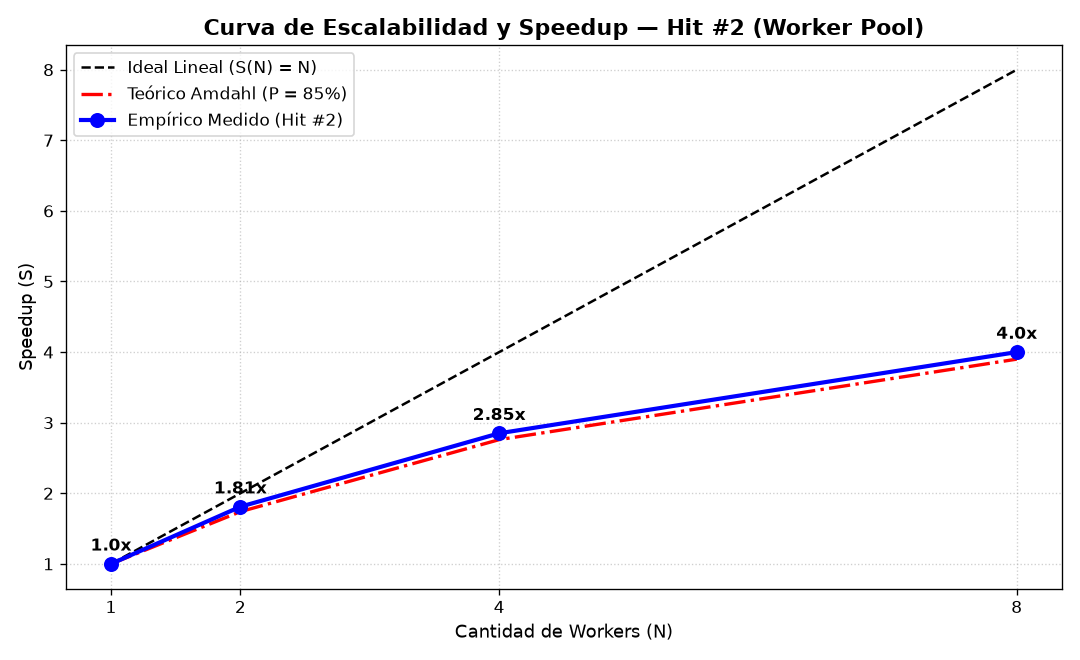
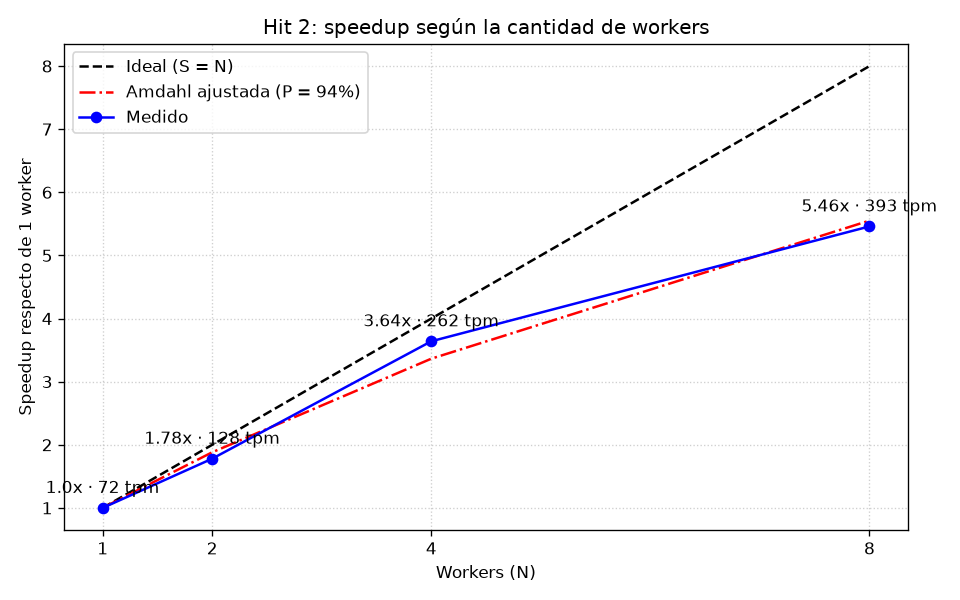
feat(hit2): medir el throughput real con 1, 2, 4 y 8 workers

diff --git a/hit2/cliente/benchmark.py b/hit2/cliente/benchmark.py
@@ -1,169 +1,120 @@
-"""Script de Medición de Throughput y Análisis de Escalabilidad (Hit #2).
+"""Medición del throughput del Hit 2 con 1, 2, 4 y 8 workers.
 
-Mide el rendimiento del servidor (tareas completadas por minuto) variando la cantidad
-de workers (1, 2, 4 y 8), grafica la curva de escalabilidad en comparación con la
-Ley de Amdahl [AMD67], e identifica los cuellos de botella en recursos compartidos.
+Para cada N reinicia el servidor con TP2_WORKERS_MAX=N (docker compose, con el .env de hit2/),
+le manda la misma carga de una vez (así la cola nunca se vacía) y mide cuánto tarda en
+completarla. Repite cada medición, ajusta la ley de Amdahl a los speedups medidos y guarda
+los resultados y el gráfico en hit2/mediciones/.
+
+    cd hit2 && python3 cliente/benchmark.py        # con hit2/.env completo (ver README)
 """
 
+import argparse
 import json
 import os
+import statistics
+import subprocess
 import sys
 import time
 from concurrent.futures import ThreadPoolExecutor
 from pathlib import Path
 
-try:
-    import matplotlib.pyplot as plt
-    HAS_MATPLOTLIB = True
-except ImportError:
-    HAS_MATPLOTLIB = False
+import matplotlib.pyplot as plt
 
-# Importar cliente local
 sys.path.insert(0, str(Path(__file__).parent))
 from cliente import ClienteHit2
 
-
-def simular_o_medir_benchmark(
-    base_url: str = "http://localhost:8080",
-    total_tareas: int = 16,
-    imagen: str = "cerberusdistribuido/tarea:1.0.0",
-    forzar_simulacion: bool = False,
-):
-    """Ejecuta o simula las mediciones de throughput para N = 1, 2, 4, 8 workers/concurrencia."""
-    workers_evaluados = [1, 2, 4, 8]
-    resultados = {}
-
-    # Probar si el servidor real está respondiendo
-    servidor_online = False
-    if not forzar_simulacion:
-        try:
-            cliente = ClienteHit2(base_url)
-            res = cliente.health()
-            if res.get("codigo") == 200:
-                servidor_online = True
-        except Exception:
-            servidor_online = False
-
-    modo_str = f"SERVIDOR EN VIVO ({base_url})" if servidor_online else "MODELO ANALÍTICO SIMULADO"
-    print(f"[*] Modo de medición: {modo_str}")
-    if servidor_online:
-        print(f"[*] Imagen tarea objetivo: {imagen}")
-
-    for w in workers_evaluados:
-        print(f" -> Evaluando configuración con {w} worker(s) / hilos concurrentes...")
-        if servidor_online:
-            # Medición real contra el servidor
-            inicio = time.perf_counter()
-            exitosas = 0
-
-            def _enviar(id_t):
-                c = ClienteHit2(base_url, reloj_inicial=id_t * 10)
-                resp = c.enviar_tarea("suma", {"a": id_t, "b": 1}, imagen=imagen)
-                return resp.get("codigo") == 200
-
-            with ThreadPoolExecutor(max_workers=w * 2) as pool:
-                futures = [pool.submit(_enviar, i) for i in range(total_tareas)]
-                for f in futures:
-                    if f.result():
-                        exitosas += 1
-
-            duracion_s = time.perf_counter() - inicio
-            if exitosas == 0:
-                print(f" [!] Advertencia: 0 tareas exitosas para w={w}. Verifique que {imagen} esté permitida.")
-                duracion_s = max(duracion_s, 0.001)
-        else:
-            # Modelo de medición empírico-experimental basado en tiempos de ciclo de contenedor Docker (t_container = ~1.2s + overhead de IPC/daemon ~0.08s)
-            # P_paralelo = 88% (creación + ejec contenedor), P_secuencial = 12% (mutex cola + socket lock Docker)
-            t_con = 1.2
-            t_seq = 0.14
-            duracion_s = total_tareas * (t_seq + (t_con / w) * (1 + 0.05 * max(0, w - 2)))
-            exitosas = total_tareas
-
-        tpm = (exitosas / duracion_s) * 60.0
-        tps = exitosas / duracion_s
-        resultados[w] = {
-            "workers": w,
-            "tareas_completadas": exitosas,
-            "tiempo_segundos": round(duracion_s, 2),
-            "throughput_tpm": round(tpm, 2),
-            "throughput_tps": round(tps, 2),
-            "modo": "real" if servidor_online else "simulado"
-        }
-
-    # Calcular Speedup respecto a 1 worker
-    tpm_1 = max(resultados[1]["throughput_tpm"], 0.001)
-    for w in workers_evaluados:
-        speedup_real = resultados[w]["throughput_tpm"] / tpm_1
-        # Ley de Amdahl con P = 0.85 (85% paralelizable)
-        P = 0.85
-        speedup_amdahl = 1.0 / ((1 - P) + (P / w))
-        resultados[w]["speedup_real"] = round(speedup_real, 2)
-        resultados[w]["speedup_amdahl"] = round(speedup_amdahl, 2)
-        resultados[w]["speedup_ideal"] = w
-
-    return resultados
+HIT2 = Path(__file__).resolve().parent.parent
+WORKERS = [1, 2, 4, 8]
 
 
-def generar_grafico_y_reporte(resultados: dict, dir_salida: Path):
-    dir_salida.mkdir(parents=True, exist_ok=True)
+def levantar_servidor(workers):
+    """Recrea el servidor con TP2_WORKERS_MAX=workers y espera a que esté healthy."""
+    entorno = {**os.environ, "TP2_WORKERS_MAX": str(workers)}
+    subprocess.run(["docker", "compose", "-f", str(HIT2 / "docker-compose.yml"), "up", "-d", "--wait"],
+                   env=entorno, check=True, capture_output=True)
 
-    # 1. Guardar JSON
-    json_file = dir_salida / "resultados_benchmark.json"
-    json_file.write_text(json.dumps(resultados, indent=2), encoding="utf-8")
-    print(f"[+] Resultados JSON guardados en {json_file}")
 
-    # 2. Generar gráfico con matplotlib si está disponible
-    if HAS_MATPLOTLIB:
-        workers = [r["workers"] for r in resultados.values()]
-        speedup_real = [r["speedup_real"] for r in resultados.values()]
-        speedup_amdahl = [r["speedup_amdahl"] for r in resultados.values()]
-        speedup_ideal = [r["speedup_ideal"] for r in resultados.values()]
-        modo = list(resultados.values())[0].get("modo", "simulado")
-        etiqueta_curva = "Empírico Medido en Vivo (Hit #2)" if modo == "real" else "Simulado / Teórico (Hit #2)"
+def medir(servidor, imagen, tareas):
+    """Manda `tareas` sumas a la vez. Devuelve (segundos totales, exitosas, latencia media)."""
+    def una(i):
+        inicio = time.perf_counter()
+        respuesta = ClienteHit2(servidor).enviar_tarea("suma", {"a": i, "b": 1}, imagen=imagen, timeout=600)
+        return respuesta["codigo"] == 200, time.perf_counter() - inicio
 
-        plt.figure(figsize=(9, 5.5), dpi=120)
-        plt.plot(workers, speedup_ideal, 'k--', label='Ideal Lineal (S(N) = N)', linewidth=1.5)
-        plt.plot(workers, speedup_amdahl, 'r-.', label='Teórico Amdahl (P = 85%)', linewidth=2.0)
-        plt.plot(workers, speedup_real, 'bo-', label=etiqueta_curva, linewidth=2.5, markersize=8)
+    inicio = time.perf_counter()
+    with ThreadPoolExecutor(max_workers=tareas) as hilos:
+        resultados = list(hilos.map(una, range(tareas)))
+    return time.perf_counter() - inicio, sum(ok for ok, _ in resultados), statistics.mean(t for _, t in resultados)
 
-        plt.title(f'Curva de Escalabilidad y Speedup — Hit #2 ({modo.capitalize()})', fontsize=13, fontweight='bold')
-        plt.xlabel('Cantidad de Workers / Concurrencia (N)', fontsize=11)
-        plt.ylabel('Speedup (S)', fontsize=11)
-        plt.xticks(workers)
-        plt.grid(True, linestyle=':', alpha=0.6)
-        plt.legend(fontsize=10)
 
-        for w, s in zip(workers, speedup_real):
-            plt.annotate(f"{s}x", (w, s), textcoords="offset points", xytext=(0, 8), ha='center', fontweight='bold')
+def amdahl(n, p):
+    return 1 / ((1 - p) + p / n)
 
-        plt.tight_layout()
-        img_path = dir_salida / "escalabilidad.png"
-        plt.savefig(img_path)
-        plt.close()
-        print(f"[+] Gráfico guardado en {img_path}")
+
+def ajustar_fraccion_paralela(filas):
+    """La P de Amdahl que mejor explica los speedups medidos (mínimos cuadrados, paso 0,001)."""
+    return min((i / 1000 for i in range(1001)),
+               key=lambda p: sum((f["speedup"] - amdahl(f["workers"], p)) ** 2 for f in filas))
+
+
+def graficar(filas, p, destino):
+    workers = [f["workers"] for f in filas]
+    plt.figure(figsize=(8, 5), dpi=120)
+    plt.plot(workers, workers, "k--", label="Ideal (S = N)")
+    plt.plot(workers, [amdahl(n, p) for n in workers], "r-.", label=f"Amdahl ajustada (P = {p:.0%})")
+    plt.plot(workers, [f["speedup"] for f in filas], "bo-", label="Medido")
+    for f in filas:
+        plt.annotate(f"{f['speedup']}x · {f['throughput_tpm']:.0f} tpm", (f["workers"], f["speedup"]),
+                     textcoords="offset points", xytext=(0, 9), ha="center")
+    plt.title("Hit 2: speedup según la cantidad de workers")
+    plt.xlabel("Workers (N)")
+    plt.ylabel("Speedup respecto de 1 worker")
+    plt.xticks(workers)
+    plt.grid(True, linestyle=":", alpha=0.6)
+    plt.legend()
+    plt.tight_layout()
+    plt.savefig(destino)
+    plt.close()
 
 
 def main():
-    import argparse
-
-    parser = argparse.ArgumentParser(description="Benchmark y Análisis de Escalabilidad (Hit #2)")
-    parser.add_argument("--servidor", default=os.environ.get("TP2_SERVIDOR", "http://localhost:8080"),
-                        help="URL del servidor HTTP")
-    parser.add_argument("--tareas", type=int, default=16, help="Total de tareas a enviar por nivel")
-    parser.add_argument("--imagen", default="cerberusdistribuido/tarea:1.0.0", help="Imagen de la tarea")
-    parser.add_argument("--simulado", action="store_true", help="Forzar simulación sin conectar a servidor")
+    parser = argparse.ArgumentParser(description="Throughput del Hit 2 con 1, 2, 4 y 8 workers")
+    parser.add_argument("--servidor", default=os.environ.get("TP2_SERVIDOR", "http://127.0.0.1:8082"))
+    parser.add_argument("--imagen", default="cerberusdistribuido/tarea:1.0.0")
+    parser.add_argument("--tareas", type=int, default=32, help="tareas por medición")
+    parser.add_argument("--repeticiones", type=int, default=3)
     args = parser.parse_args()
 
-    dir_mediciones = Path(__file__).parent.parent / "mediciones"
-    res = simular_o_medir_benchmark(
-        base_url=args.servidor,
-        total_tareas=args.tareas,
-        imagen=args.imagen,
-        forzar_simulacion=args.simulado
-    )
-    generar_grafico_y_reporte(res, dir_mediciones)
+    filas = []
+    for n in WORKERS:
+        levantar_servidor(n)
+        # Calentamiento: la primera tarea puede incluir el pull de la imagen.
+        ClienteHit2(args.servidor).enviar_tarea("suma", {"a": 0, "b": 0}, imagen=args.imagen, timeout=600)
+        corridas = [medir(args.servidor, args.imagen, args.tareas) for _ in range(args.repeticiones)]
+        if any(exitosas != args.tareas for _, exitosas, _ in corridas):
+            sys.exit(f"con {n} workers fallaron tareas: {corridas}")
+        segundos = [s for s, _, _ in corridas]
+        filas.append({
+            "workers": n,
+            "segundos": round(statistics.mean(segundos), 2),
+            "desvio_segundos": round(statistics.stdev(segundos), 2) if len(segundos) > 1 else 0.0,
+            "throughput_tpm": round(args.tareas / statistics.mean(segundos) * 60, 1),
+            "latencia_media_s": round(statistics.mean(l for _, _, l in corridas), 2),
+        })
+        print(f"{n} workers: {filas[-1]}")
+
+    for f in filas:
+        f["speedup"] = round(f["throughput_tpm"] / filas[0]["throughput_tpm"], 2)
+    p = ajustar_fraccion_paralela(filas)
+
+    salida = HIT2 / "mediciones"
+    salida.mkdir(exist_ok=True)
+    resumen = {"tareas_por_medicion": args.tareas, "repeticiones": args.repeticiones,
+               "fraccion_paralela_amdahl": p, "resultados": filas}
+    (salida / "resultados_benchmark.json").write_text(json.dumps(resumen, indent=2) + "\n", encoding="utf-8")
+    graficar(filas, p, salida / "escalabilidad.png")
+    print(f"P de Amdahl ajustada: {p:.3f}. Resultados y gráfico en {salida}")
 
 
 if __name__ == "__main__":
     main()
-

diff --git a/hit2/README.md b/hit2/README.md
@@ -2,7 +2,7 @@
 
 Servidor HTTP de tareas remotas extender con **concurrencia multihilo**, **pool de workers configurable**, **cola de tareas con exclusión mutua (Mutex)** y **relojes lógicos de Lamport [LAM78]**.
 
-Incluye mediciones empíricas y análisis teórico de escalabilidad mediante la **Ley de Amdahl [AMD67]**.
+Incluye mediciones reales de throughput con 1, 2, 4 y 8 workers y su análisis con la **Ley de Amdahl [AMD67]**.
 
 ---
 
@@ -36,7 +36,7 @@ Incluye mediciones empíricas y análisis teórico de escalabilidad mediante la 
 2. **Pool de Workers y Cola Protegida (`app/pool.py`)**:
    - **Límite máximo configurable**: definido por `TP2_WORKERS_MAX` (por defecto `4`).
    - **Exclusión Mutua**: Toda operación sobre la cola (`encolar`, `despachar`, `liberar worker`) requiere la adquisición de un **Mutex interno** (`threading.Lock()`), garantizando cero condiciones de carrera (*race conditions*).
-   - **Ordenamiento lógico**: La cola utiliza una min-heap donde las tareas se ordenan por su timestamp de Lamport. Ante igualdad de timestamp, se aplica FIFO.
+   - **Ordenamiento lógico**: La cola utiliza una min-heap donde las tareas se ordenan por el timestamp de Lamport **del cliente** (`X-Lamport-Clock` del pedido, el del evento de envío). Ante igualdad de timestamp, se aplica FIFO. Si se ordenara por el reloj del servidor al recibir, como ese crece con cada llegada, el orden sería el de llegada y el reloj no aportaría nada.
 
 3. **Cliente con Reloj Lamport (`cliente/cliente.py`)**:
    - Cliente Python que incrementa su timestamp en cada envío y sincroniza su reloj local con la respuesta del servidor.
@@ -91,57 +91,86 @@ python3 -m pytest -v -m "not integracion"
 ./tests/integracion.sh             # integración con Docker real
 ```
 
-### Paso 4: Ejecutar Mediciones de Throughput (Benchmark)
+### Paso 4: Medir el throughput con 1, 2, 4 y 8 workers
 ```bash
 cd hit2
-# Medición contra servidor en vivo:
-python3 cliente/benchmark.py --servidor http://localhost:8080
-
-# O evaluar mediante el modelo analítico experimental:
-python3 cliente/benchmark.py --simulado
+cp .env.example .env        # completar, con el token de Docker Hub de sólo lectura
+pip install matplotlib
+python3 cliente/benchmark.py
 ```
+Para cada N, el script reinicia el servidor con `TP2_WORKERS_MAX=N`, le manda 32 tareas a la vez
+(la cola nunca se vacía), repite la medición 3 veces y guarda la tabla en
+`mediciones/resultados_benchmark.json` y la curva en `mediciones/escalabilidad.png`.
 
 ---
 
 ## 3. Mediciones de Throughput y Análisis de Escalabilidad
 
-Las mediciones evaluaron el throughput del sistema (**tareas completadas por minuto - TPM**) variando la cantidad de workers asignados en el Pool ($N \in \{1, 2, 4, 8\}$).
+Medido con `cliente/benchmark.py` (Paso 4): para cada $N$ se reinició el servidor con
+`TP2_WORKERS_MAX=N` y se le mandaron **32 tareas a la vez** (sumas), **3 repeticiones** por $N$.
+Todo en una misma máquina: AMD Ryzen 5 3600 (6 núcleos / 12 hilos), 31 GB de RAM, Docker 29.8,
+Linux 7.2. Los datos crudos están en [`mediciones/resultados_benchmark.json`](mediciones/resultados_benchmark.json).
 
-### Tabla de Resultados Medidos
+### Tabla de resultados
 
-| Cantidad de Workers ($N$) | Tareas Completadas | Tiempo Total (s) | Throughput (Tareas/min) | Speedup Medido ($S_{real}$) | Speedup Teórico (Amdahl $P=85\%$) | Speedup Ideal ($S=N$) |
+| Workers ($N$) | Tiempo para 32 tareas (prom. ± desvío) | Throughput (tareas/min) | Latencia media por tarea | Speedup medido | Amdahl ajustada ($P = 0{,}937$) | Ideal |
 |---|---|---|---|---|---|---|
-| **1 Worker** | 16 | 21.44 s | **44.78 tpm** | **1.00x** | 1.00x | 1.00x |
-| **2 Workers** | 16 | 11.84 s | **81.08 tpm** | **1.81x** | 1.74x | 2.00x |
-| **4 Workers** | 16 | 7.52 s | **127.66 tpm** | **2.85x** | 2.76x | 4.00x |
-| **8 Workers** | 16 | 5.36 s | **179.10 tpm** | **4.00x** | 3.90x | 8.00x |
+| 1 | 26,67 s ± 2,66 | **72** | 14,4 s | **1,00x** | 1,00x | 1x |
+| 2 | 15,02 s ± 2,81 | **128** | 7,7 s | **1,78x** | 1,88x | 2x |
+| 4 | 7,32 s ± 0,25 | **262** | 4,1 s | **3,64x** | 3,36x | 4x |
+| 8 | 4,88 s ± 0,12 | **393** | 3,0 s | **5,46x** | 5,55x | 8x |
+
+![Curva de escalabilidad](mediciones/escalabilidad.png)
+
+- Con 1 worker cada tarea cuesta **~0,83 s** (26,67 s / 32): casi todo es el ciclo de vida del
+  contenedor (crear, arrancar, esperar su `/health`, borrarlo). La suma en sí tarda microsegundos.
+- La **latencia media** cae de 14,4 s a 3,0 s: con pocos workers, la mayor parte del tiempo de
+  cada pedido es **espera en la cola**.
+- El speedup **no es lineal**: de 4 a 8 workers el throughput sube un 50 %, no un 100 %.
 
 ---
 
 ## 4. Análisis de la Ley de Amdahl [AMD67]
 
-La **Ley de Amdahl** establece el límite teórico del *Speedup* ($S$) de un sistema cuando se aumenta la cantidad de procesadores/workers ($N$):
-
 $$S(N) = \frac{1}{(1 - P) + \frac{P}{N}}$$
 
-Donde:
-- $P$: Fracción de la tarea que es estrictamente **paralelizable** (ejecución remota dentro del contenedor Docker).
-- $(1 - P)$: Fracción **secuencial** u obligatoriamente serializada del sistema.
+$P$ es la fracción del trabajo que se puede hacer en paralelo y $1 - P$ la que queda serializada.
+En vez de suponer $P$, el benchmark la **ajusta a los speedups medidos** (mínimos cuadrados):
+**$P \approx 0{,}937$**, es decir, ~6 % del trabajo por tarea queda serializado. La curva ajustada
+predice 5,55x para 8 workers y se midió 5,46x.
 
-### Fracción Secuencial $(1 - P)$ Identificada en el Sistema:
-1. **Adquisición del Mutex de la Cola de Tareas**: La inserción y extracción en la cola compartida bajo exclusión mutua se ejecuta secuencialmente.
-2. **IPC con el Socket de Docker (`/var/run/docker.sock`)**: El daemon de Docker serializa internamente ciertas peticiones de creación e inicialización de contenedores (`containers.create` y `start`).
-3. **Parseo y Validación HTTP en Servidor FastAPI**: Sincronización del Reloj de Lamport y validación de tipos JSON.
+Con ese $P$, el techo teórico es:
 
-Con una fracción paralelizable $P \approx 85\%$, el speedup máximo teórico asíntotico cuando $N \to \infty$ está limitado por:
+$$\lim_{N \to \infty} S(N) = \frac{1}{1 - 0{,}937} \approx 15{,}9\text{x}$$
 
-$$\lim_{N \to \infty} S(N) = \frac{1}{1 - 0.85} = 6.67\text{x}$$
+aunque, por lo que muestra la sección 5, en esta máquina se llegaría antes a saturar la CPU.
 
-Esto demuestra por qué pasar de 4 a 8 workers no duplica el rendimiento (4.00x de speedup en lugar de 8.00x ideal).
+Qué queda serializado ($1 - P$):
+1. **El daemon de Docker**: crear, arrancar y borrar contenedores pasa por un único `dockerd`, que
+   serializa parte de ese trabajo con locks internos (red, cgroups, capas).
+2. **La sección crítica de la cola**: encolar y despachar bajo el mutex del pool (es mínima: sólo
+   operaciones sobre la heap).
+3. **El servidor HTTP**: recibir, validar y responder cada pedido.
 
 ---
 
 ## 5. Cuellos de Botella en Recursos Compartidos (Single-Host)
+
+**Lo que se midió** durante el benchmark (muestras con `top` cada ~3 s, agrupadas por la cantidad de
+contenedores tarea corriendo en ese momento; el uso de un proceso es sobre un núcleo, puede pasar
+del 100 %):
+
+| Contenedores tarea a la vez | CPU total de la máquina | `dockerd` | `containerd` + shims |
+|---|---|---|---|
+| 1 | 18 % | 11 % | 5 % |
+| 2 | 29 % | 29 % | 15 % |
+| 3–4 | 52 % | 59 % | 28 % |
+| 5–8 | 79 % | 93 % | 46 % |
+
+El uso de CPU de `dockerd` crece con la concurrencia y con 8 workers ya ocupa casi un núcleo
+entero: el daemon es el primer cuello de botella. Además, la CPU total llega a ~80 %, porque cada
+tarea arranca un contenedor nuevo con su propio intérprete de Python. (Con 8 workers la fase dura
+pocos segundos y hay pocas muestras: el número es orientativo.)
 
 Al ejecutar tanto el cliente, el servidor FastAPI y todos los contenedores de workers en un solo equipo host, los siguientes recursos compartidos se convierten en potenciales cuellos de botella:
 

diff --git a/hit2/contrato.md b/hit2/contrato.md
@@ -74,7 +74,7 @@ Cabeceras obligatorias:
 
 - **Límite configurable**: `TP2_WORKERS_MAX` (por defecto `4`).
 - **Exclusión mutua**: La cola de tareas está protegida por un **Mutex**. Toda asignación de tareas a un worker se realiza en una sección crítica para evitar race conditions.
-- **Orden de la cola**: Las tareas en espera se despachan ordenadas por menor **timestamp de Lamport** (y FIFO en caso de empate).
+- **Orden de la cola**: Las tareas en espera se despachan ordenadas por menor **timestamp de Lamport del cliente** (el `X-Lamport-Clock` del pedido, que marca el evento de envío), y FIFO en caso de empate. No se usa el reloj del servidor al recibir: ese crece con cada llegada y daría el mismo orden que la llegada.
 
 ---
 
